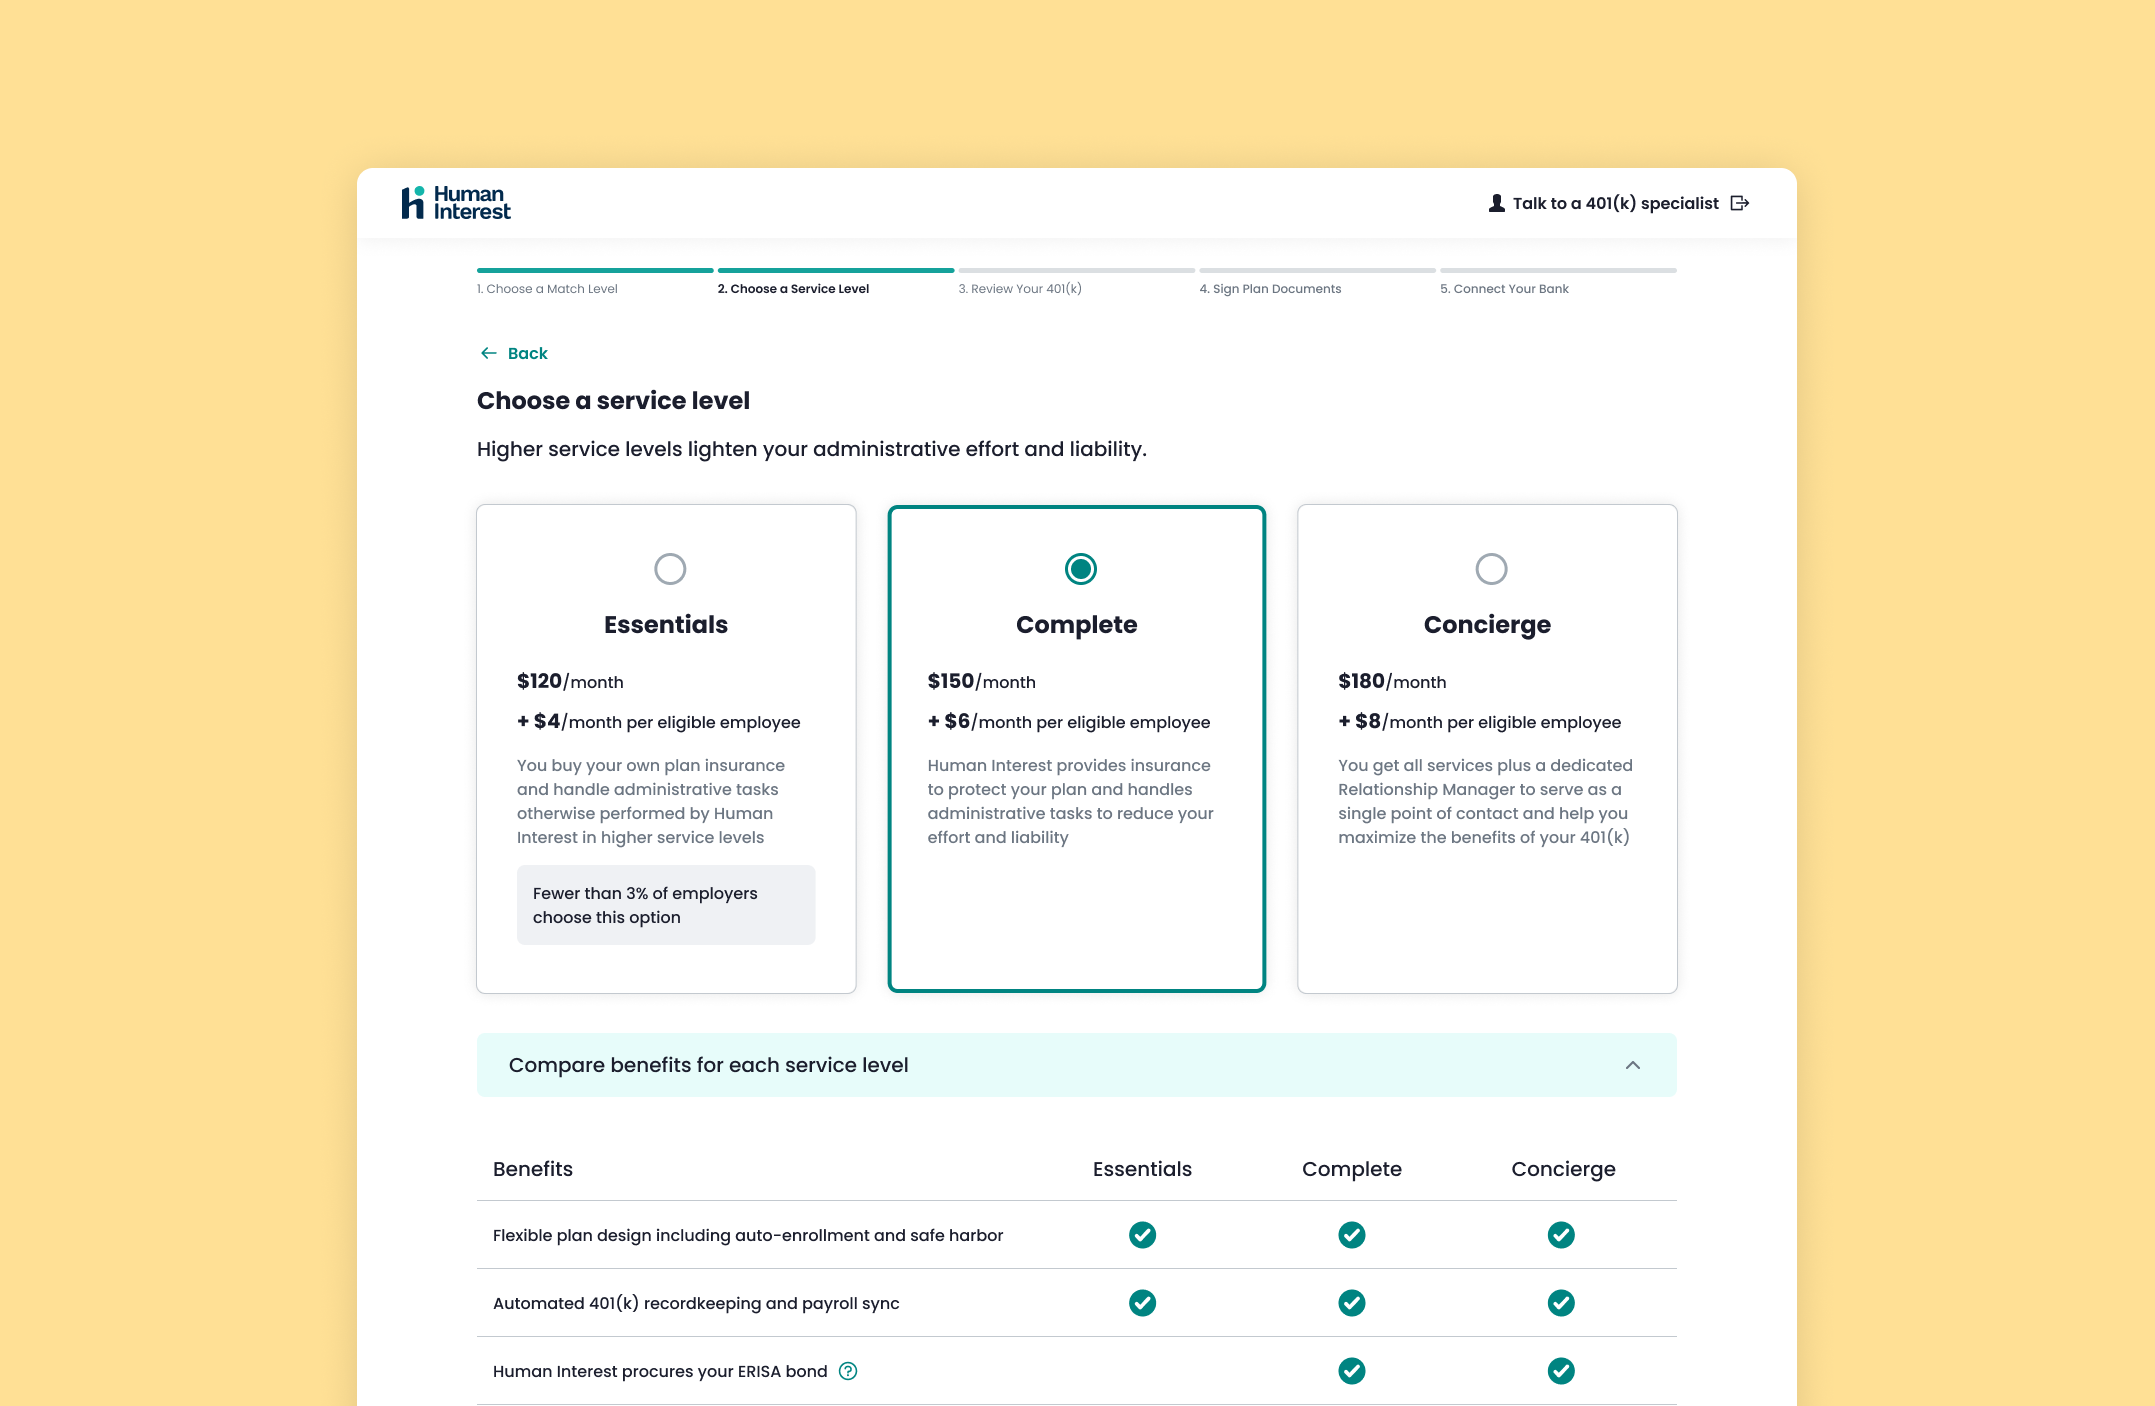
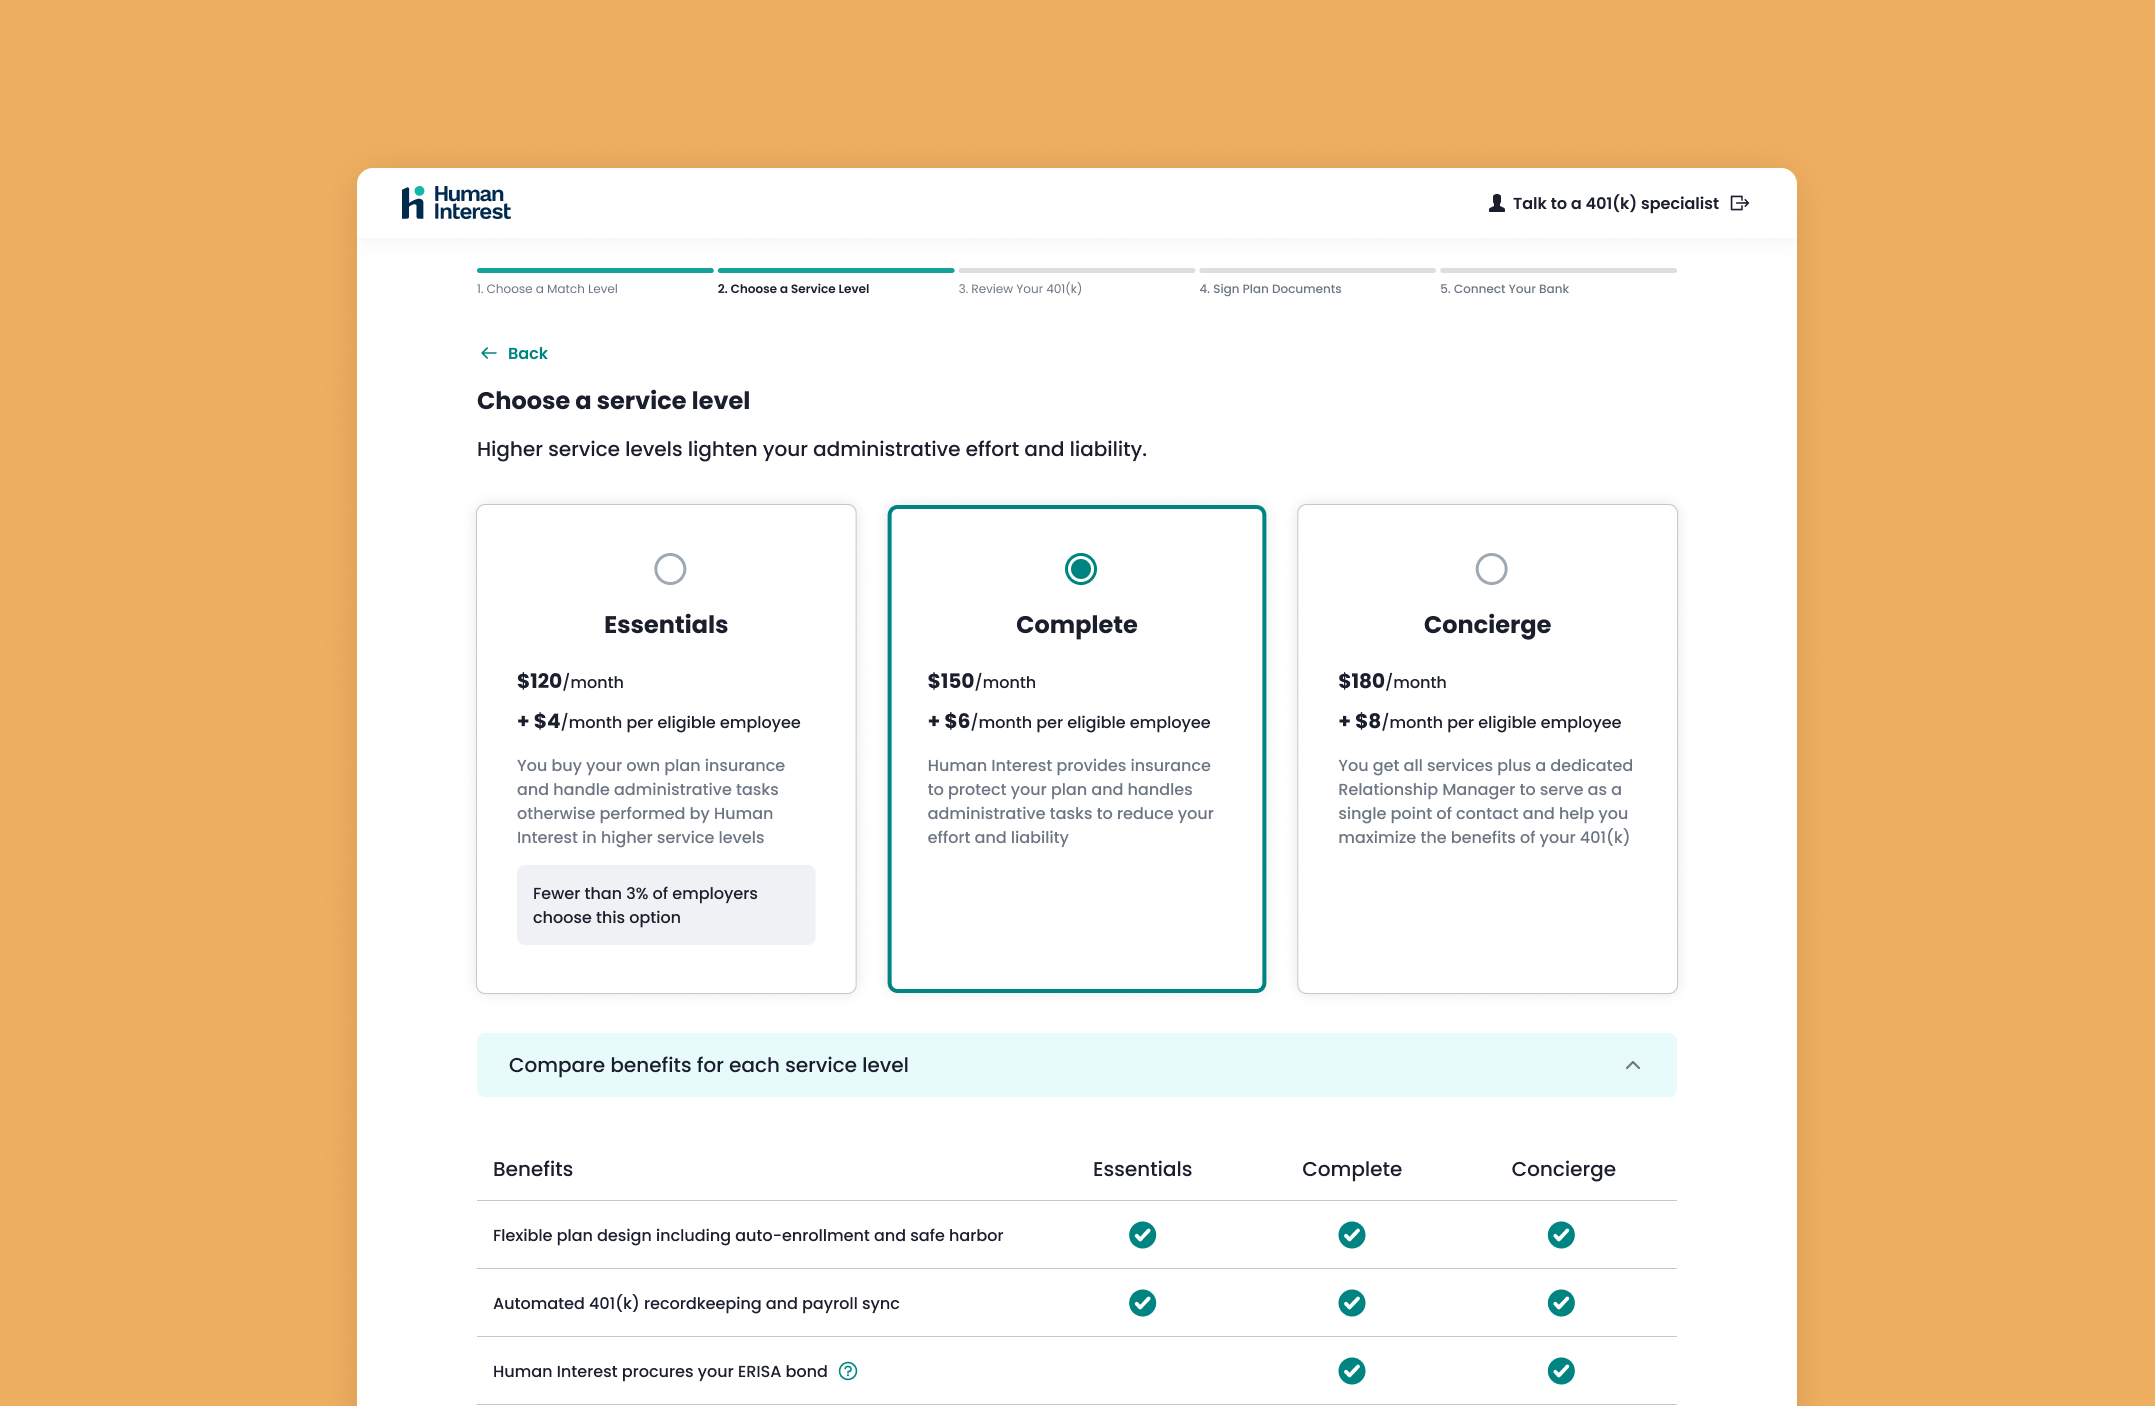
update

diff --git a/css/bootstrap.css b/css/bootstrap.css
@@ -124,14 +124,14 @@ header {
   --bs-black-rgb: 0, 0, 0;
   --bs-body-color-rgb: 33, 37, 41;
   --bs-body-bg-rgb: 255, 255, 255;
-  --bs-font-sans-serif: "graphik", sans-serif;
+  --bs-font-sans-serif: "neuemontreal", sans-serif;
   --bs-font-monospace: SFMono-Regular, Menlo, Monaco, Consolas, "Liberation Mono", "Courier New", monospace;
   --bs-gradient: linear-gradient(180deg, rgba(255, 255, 255, 0.15), rgba(255, 255, 255, 0));
   --bs-body-font-family: var(--bs-font-sans-serif);
   --bs-body-font-size: 19px;
   --bs-body-font-weight: 400;
   --bs-body-line-height: 1.5;
-  --bs-body-color: #413c3c;
+  --bs-body-color: #322e2e;
   --bs-body-bg: #fff;
   --bs-border-width: 1px;
   --bs-border-style: solid;
@@ -197,7 +197,7 @@ hr {
 */
 
 .bold {
-  font-family:'graphik-medium';
+  font-family:'neuemontreal-medium';
 }
 
 h6, .h6, h5, .h5, h4, .h4, h3, .h3, h2, .h2, h1, .h1 {
@@ -205,7 +205,7 @@ h6, .h6, h5, .h5, h4, .h4, h3, .h3, h2, .h2, h1, .h1 {
   margin-bottom: 0;
   line-height: 1.4;
 -webkit-font-smoothing: subpixel-antialiased; 
-font-family: 'graphik', serif;
+font-family: 'neuemontreal', serif;
 font-weight:500;
 }
 
@@ -263,7 +263,7 @@ font-size: 16px;
   margin-top: 0;
   margin-bottom: 0;
   font-style:normal;
-  color:#7b7d72;
+  color:#92938e;
   font-size:var(--bs-body-font-size);
   line-height:1.5;
 }
@@ -755,13 +755,13 @@ progress {
 .figure-caption {
   padding-top:10px;
   font-size: 16px;
-  color: #7b7d72;
+  color: #92938e;
   text-align:center;
 }
 
 .bigsubtext {
   font-size: 32px;
-  color:#7b7d72;
+  color:#92938e;
   line-height:125%;
   max-width:650px;
 }

diff --git a/css/style.css b/css/style.css
@@ -5,13 +5,13 @@
 }
 
 @font-face {
-  font-family: "graphik";
+  font-family: "neuemontreal";
   src: url(/fonts/NeueMontreal-Regular.otf)
 }
 
 @font-face {
-  font-family: "graphik-medium";
-  src: url(/fonts/GraphikMedium.otf)
+  font-family: "neuemontreal-medium";
+  src: url(/fonts/PPNeueMontreal-Medium.otf)
 }
 
 @font-face {
